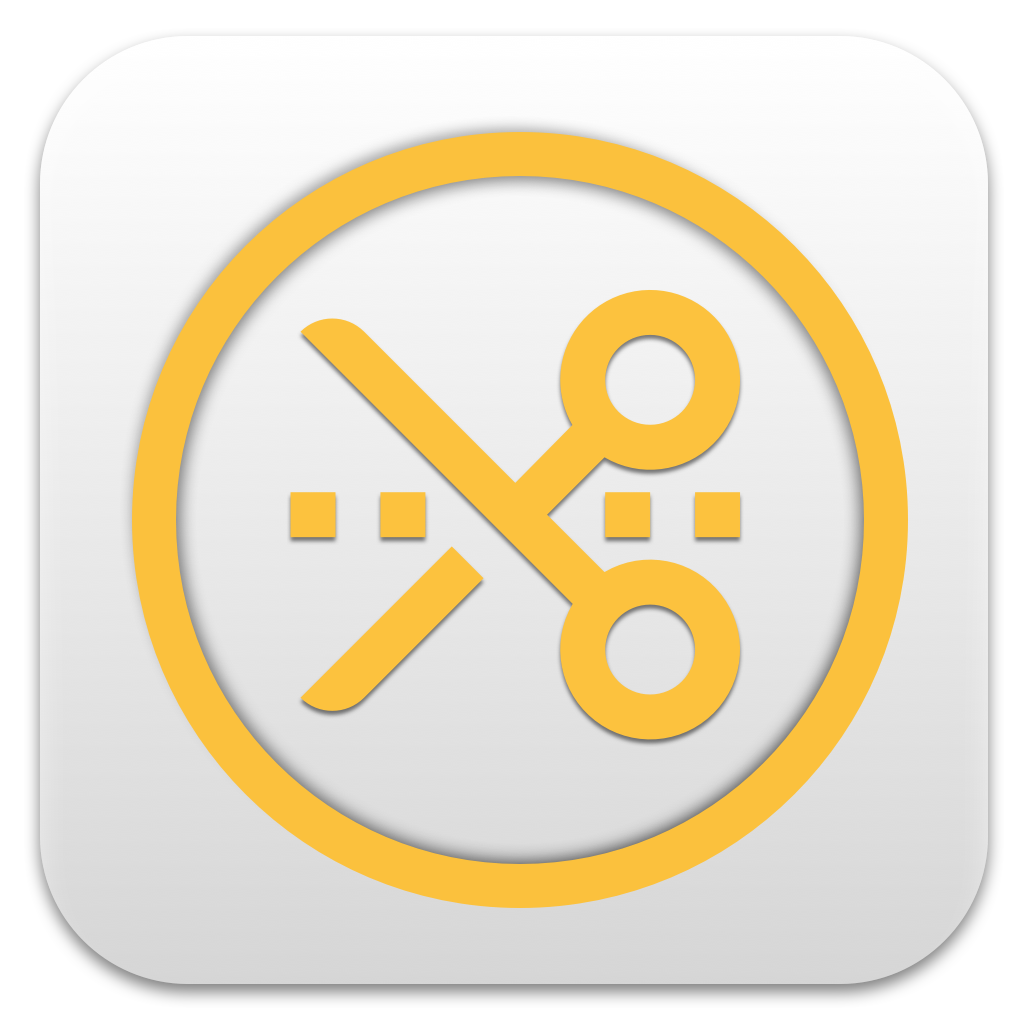
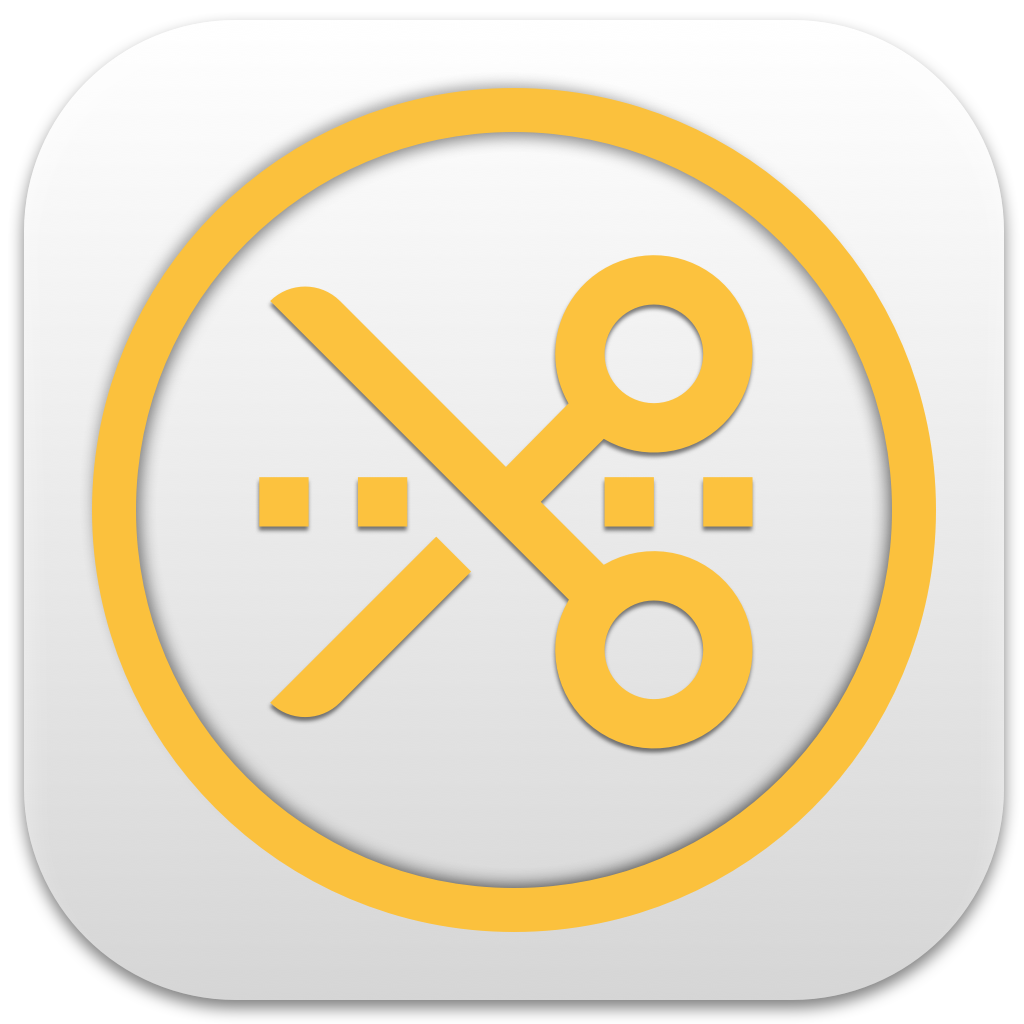
v1.1.3

diff --git a/Resources/highlighter.js b/Resources/highlighter.js
@@ -1,5 +1,5 @@
 //Date: 2021.12.21
-var verNum = '1.1.2'; //Indenting bug in Slack chat
+var verNum = '1.1.3'; //Indenting bug in Slack chat
 var getPage = location.href;
 var iframeDoc = document;
 
@@ -31,7 +31,7 @@ var formatStrike = '~~';
 var formatInsert = formatBold;
 var formatCode = '`';
 var formatBullets = '- ';
-var bHeaders = true;
+var bHeaders = false;
 var bIndents = true;
 var bLinks = true;
 var bAutoHL = false;
@@ -406,7 +406,7 @@ function mainFunction(){
             //创建第一行「清除按钮」和「自动高亮选项框」
             {
                 //在 rmHLform 中创建「清除标记」按钮，并绑定点击事件
-                var butClearAll = createNewElement('button','清楚所有高亮','','background-color:black;color:white;border-color:white;margin-left:0px;font-size:12px;line-height:normal;border-color:white;border-width:1px;border-style:solid;cursor:pointer;padding:5px;vertical-align:bottom',formElem,'rmHLclear','rmHLclear');
+                var butClearAll = createNewElement('button','清除所有高亮','','background-color:black;color:white;border-color:white;margin-left:0px;font-size:12px;line-height:normal;border-color:white;border-width:1px;border-style:solid;cursor:pointer;padding:5px;vertical-align:bottom',formElem,'rmHLclear','rmHLclear');
                 butClearAll.addEventListener("click", function(){
                     removeAllHighlights();
                 });
@@ -815,7 +815,7 @@ function mainFunction(){
             //设置导入到 Obsidian 的库和文件目录，以及按钮
             //如果目录不存在可以自动创建
             {
-                var labelElemOb = createNewElement('label','设置导出到 Obsidian 的库和路径','','font-size:12px;line-height:normal;color:black;font-weight:bold;display:inline-block',formElem,'','');
+                var labelElemOb = createNewElement('label','设置导出到 Obsidian 的库和路径：目录中不能有 `\:` 等内容，否则会被替换成 `-`','','font-size:12px;line-height:normal;color:black;font-weight:bold;display:inline-block',formElem,'','');
 
                 formElem.appendChild(document.createElement('br'));
                 var labelElemOb1 = createNewElement('label','库名:','rmHLtbObVault','font-size:12px;line-height:normal;color:black;font-weight:bold;display:inline-block',formElem,'','');
@@ -831,23 +831,7 @@ function mainFunction(){
                 //在 rmHLform 中创建「导出到 Obsidian」按钮，并绑定点击事件
                 var butExportObsidian = createNewElement('button','导出到 Obsidian','','background-color:black;color:white;border-color:white;margin-left:15px;font-size:12px;line-height:normal;border-color:white;border-width:1px;border-style:solid;cursor:pointer;padding:5px;vertical-align:bottom',formElem,'rmHLexport','rmHLexport');
                 butExportObsidian.addEventListener("click", function(){
-                    //获取内容，并导出
-                    let textInput = iframeDoc.getElementById("rmHLtextArea");
-                    let content = encodeURIComponent(textInput.value);
-                    if (obsidianVault == "") {obsidianVault = "personal"};
-                    //如果没有「highlight/」或者 「highlight/」不是开头，确保根路径为 「highlight/」
-//                    if(obsidianPath.indexOf("highlight/") == -1 || obsidianPath.indexOf("highlight/")!=0){
-//                        obsidianPath = "highlight/"+ obsidianPath;
-//                    };
-                    //确保路径中最后一位是「/」
-                    if (obsidianPath.substr(obsidianPath.length-1,1) != "/"){ obsidianPath += "/"}
-                    //替换路径中的 `\:` 以及空格
-                    obsidianPath = obsidianPath.replace(/[:]/g, "-").replace(/\\/g, "-").replace(/[ ]/g,"");
-                    //替换标题中 `/\:`
-                    pageTitle = pageTitle.replace(/[/]/g, "-").replace(/[:]/g, "-").replace(/\\/g, "-");
-                    let url = "obsidian://new?vault="+encodeURIComponent(obsidianVault)+"&file="+encodeURIComponent(obsidianPath+pageTitle)+"&content="+content;
-                    writeToConsole(url);
-                    window.location = url;
+                    exportToObsidian();
                 });
             }
 
@@ -1152,6 +1136,15 @@ function mainFunction(){
             });
         }
 
+        //2.1.8 导出按钮
+        {
+            var butSett = createNewElement('button','导出','','float:right;background-color:black;color:white;border-color:white;width:25%;font-size:12px;line-height:normal;border-color:white;border-width:1px;border-style:solid;cursor:pointer;padding:5px;height: 100%',divButtonsElem,'rmHLexportOb','rmHLexportOb');
+
+            butSett.addEventListener("click", function(){
+                exportToObsidian();
+            });
+        }
+
         //2.1.7 右侧摘录文本区域
         {
             var textInput = createNewElement('textarea','','','width:100%;max-width:100%;height:100%;max-height:100%;background-color:white;color:black;font-weight:bold;white-space:pre;float:right;padding-left:5px;padding-right:1px;font-size:12px;line-height:normal;border-color:black;border-width:1px;border-style:solid;border-bottom:none',divTextElem,'rmHLtextArea','textAreaInput');
@@ -1268,7 +1261,7 @@ Obsidian-highlighter Shortcut Keys (v${verNum})
                         newSpanTag.appendChild(selectedText);
                         subSelection.insertNode(newSpanTag);
 
-                        //清楚原始鼠标选择状态
+                        //清除原始鼠标选择状态
                         document.getSelection().removeAllRanges();
 
                         //强制执行 "剪切 "事件，因为除非从剪切/复制事件中激活，否则 clipboardData 事件 setData 不会工作。
@@ -1299,6 +1292,10 @@ Obsidian-highlighter Shortcut Keys (v${verNum})
                     showWindow = 1;
                     setLocalStorageValue("showWindow", showWindow);
                 }
+            }
+            //导出到 Obsidian
+            if(request.callFunction === 'exportToObsidian'){
+                exportToObsidian();
             }
 
         })
@@ -3272,9 +3269,9 @@ Obsidian-highlighter Shortcut Keys (v${verNum})
             var lineBreaks = loopHtml.trim().split('\r\n');
 
             var newPlainText = "";
-            var indentAmount = '    ';
+            var indentAmount = '    ';//4 spaces
             if(bIndents == false){indentAmount = '';}
-            var indentCtr = 0;
+            var indentCtr = -1;//少计算一次，这样就减少了第一行缩进的情况
             for(var x=0, eachLine; eachLine = lineBreaks[x]; x++)
             {
                 if(x > 0 || cbElemPgTitle.checked){if(eachLine.substring(0,4) == '<ul>'){indentCtr++;}}
@@ -3371,6 +3368,28 @@ Obsidian-highlighter Shortcut Keys (v${verNum})
 
             // 删除之前高亮的空元素
             curElement.remove();
+        }
+
+        function exportToObsidian(){
+            //获取内容，并导出
+            let textInput = iframeDoc.getElementById("rmHLtextArea");
+            let content = encodeURIComponent(textInput.value);
+            if (obsidianVault == "") {obsidianVault = "personal"};
+            //如果没有「highlight/」或者 「highlight/」不是开头，确保根路径为 「highlight/」
+//                    if(obsidianPath.indexOf("highlight/") == -1 || obsidianPath.indexOf("highlight/")!=0){
+//                        obsidianPath = "highlight/"+ obsidianPath;
+//                    };
+            //确保路径中最后一位是「/」
+            if (obsidianPath.substr(obsidianPath.length-1,1) != "/"){ obsidianPath += "/"}
+            //替换路径中的 `\:` 以及空格
+            obsidianPath = obsidianPath.replace(/[:]/g, "-").replace(/\\/g, "- ").trim();
+            //确保路径中第一位不能是「/」
+            if (obsidianPath.substr(0,1) == "/"){ obsidianPath = obsidianPath.substr(1,obsidianPath.length-1)};
+            //替换标题中 `/\:`
+            pageTitle = pageTitle.replace(/[/]/g, "-").replace(/[:]/g, "-").replace(/\\/g, "-");
+            let url = "obsidian://new?vault="+encodeURIComponent(obsidianVault)+"&file="+encodeURIComponent(obsidianPath+pageTitle)+"&content="+content;
+            writeToConsole(url);
+            window.location = url;
         }
 
         //-----相关函数实现

diff --git a/Resources/background.js b/Resources/background.js
@@ -40,6 +40,11 @@ useBrowser.commands.onCommand.addListener(function (command) {
         useBrowser.tabs.query({active: true, currentWindow: true}, function (tabs) {
             useBrowser.tabs.sendMessage(tabs[0].id, {'callFunction': 'convertToHeader'});
         });
+    }else if (command == "export-to-obsidian"){
+        //导出到 Obsidian
+        useBrowser.tabs.query({active: true, currentWindow: true}, function (tabs) {
+            useBrowser.tabs.sendMessage(tabs[0].id, {'callFunction': 'exportToObsidian'});
+        });
 //    }else if(command == "show-hide-side-window"){
 //        useBrowser.tabs.query({active: true, currentWindow: true}, function(tabs){
 //            useBrowser.tabs.sendMessage(tabs[0].id, {'callFunction': 'showHideSideWindow'});

diff --git a/README.md b/README.md
@@ -154,6 +154,16 @@ v1.1.2
 - 修复了导出路径限制，现在可以导出到任意路径
 - 其他小问题
 
+v1.1.3
+- 导出目录，有空格，会被删除掉空格问题。 #bug
+- 解决安装后提示「清单 content_scripts 部分的 'js' 和 'css' 数组丢失或空白」。 #feature
+- 解决了导出 Obsidian 后还需要对齐格式的问题。 #bug
+- 去掉 header 默认设置项。 #feature
+- 导出OB路径如果写成 `/page` 失败问题，原因目录不能以`/`开头。 #bug
+- 修改错别字「清楚->清除」。 #bug
+- 新增导出快捷入口，一键导出。 #feature
+- 更新了应用图标，更标准展示。 #feature
+
 ## 如何开始
 在 Mac App Store 搜索「obsidian-highlighter」安装后即可使用。
 [下载地址](https://apps.apple.com/app/obsidian-highlighter/id1613923144)
